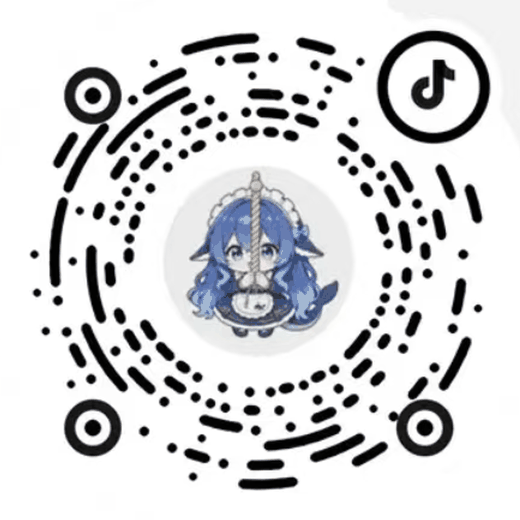
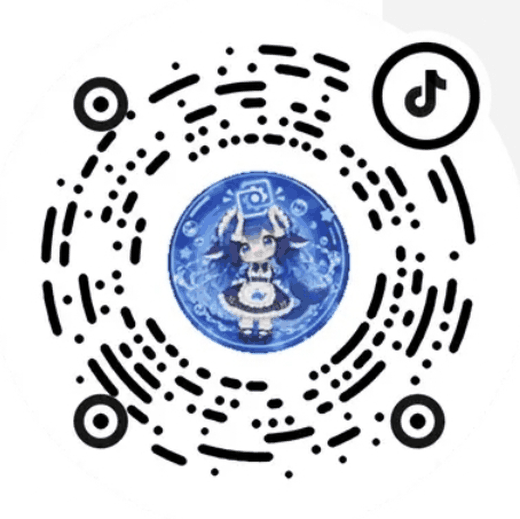
docs(联系方式): 抖音群二维码换成「dshwe 交流 2 群」（群号 917001335502）+ README 末尾加 Star History 趋势图
- 新源图归档 assets/about/douyin-group-dshwe-2-748x748.png；旧源图（dsh 交流群）保留作历史档案并标注已退役
- lib/about/douyin-group.png 按既有派生口径重出（裁码区 36px 留白 → 520px 宽 → 128 色）；客户端只存路径，不需重建产物
- 群号/群名四处同步：README.md / README.en.md / assets/about / lib/about
- 两份 README 末尾追加 star-history.com Date 型趋势图（外链 SVG，API 200 可达）

diff --git a/README.en.md b/README.en.md
@@ -334,7 +334,7 @@ Questions, feedback, or want new versions the moment they land? Join one of our 
 | 🐧 QQ group | 🎵 Douyin group |
 |---|---|
 | <img src="lib/about/qq-group.png" alt="QQ group QR code" width="260"> | <img src="lib/about/douyin-group.png" alt="Douyin group QR code" width="260"> |
-| **DSHWE \| LLM discussion** | **dsh community** (group ID 252729465001) |
+| **DSHWE \| LLM discussion** | **dshwe community 2** (group ID 917001335502) |
 
 > The images are the shipped assets `lib/about/*.png` (the plugin serves the very same bytes from its own route); for the source screenshots and how they were derived, see [`assets/about/README.md`](assets/about/README.md).
 
@@ -347,3 +347,7 @@ This plugin is the work of many people — thank you all:
 - **[yuxilao](https://github.com/yuxilao)** — the scene-gl Linux real-time rendering pipeline (WebGL2 official shader driver + several rounds of performance work) and rotation handoff / GPU frame backfill / official assets path ([#65](https://github.com/elysia395/dsh-wallpaper-engine/pull/65), [#108](https://github.com/elysia395/dsh-wallpaper-engine/pull/108)).
 - **[Jerry](https://github.com/ruijiaang-lab)** — before native three-platform support landed, he maintained the macOS side of things (WaifuX workshop directory scanning, vinyl thumbnail fallback, upstream porting, and the macOS contribution paths, [#44](https://github.com/elysia395/dsh-wallpaper-engine/pull/44), [#45](https://github.com/elysia395/dsh-wallpaper-engine/pull/45), [#52](https://github.com/elysia395/dsh-wallpaper-engine/pull/52), [#54](https://github.com/elysia395/dsh-wallpaper-engine/pull/54)).
 - Also [SiriLee](https://github.com/SiriLee) (brightness / contrast / saturation controls, the mascot pull-cord toggle, Steam root discovery from WSL), [libiwolve](https://github.com/libiwolve) (content rating & type filters), [0-007pro](https://github.com/0-007pro) (automatic wallpaper rotation), [jujubaoj646-star](https://github.com/jujubaoj646-star) (the typography & bubble styling panel), [xiahou001](https://github.com/xiahou001) (per-wallpaper audio volume), [wilianyichen](https://github.com/wilianyichen) (on-demand MP4 thumbnails & upload content ratings), [hecoococ](https://github.com/hecoococ) (decoupling sidebar glass from the active wallpaper), [ShamSky88](https://github.com/ShamSky88) (the glass blur positioning fix), [Rekk0](https://github.com/Rekk0) (token-driven glass transparency, registry-based Steam discovery), [Y1X1n](https://github.com/Y1X1n) (the beginner-friendly guide), [wwexplorer](https://github.com/wwexplorer) (wallpaper-layer framing: horizontal / vertical / scale, with typeable values) — and everyone who has helped through issues and PRs. Thank you!
+
+## Star History
+
+[![Star History Chart](https://api.star-history.com/svg?repos=elysia395/dsh-wallpaper-engine&type=Date)](https://star-history.com/#elysia395/dsh-wallpaper-engine&Date)

diff --git a/README.md b/README.md
@@ -307,7 +307,7 @@ dsh plugin --profile web add dsh-plugin-wallpaper-engine
 | 🐧 QQ 群 | 🎵 抖音群 |
 |---|---|
 | <img src="lib/about/qq-group.png" alt="QQ 群二维码" width="260"> | <img src="lib/about/douyin-group.png" alt="抖音群二维码" width="260"> |
-| **DSHWE \| LLM 讨论群** | **dsh 交流群**（群号 252729465001） |
+| **DSHWE \| LLM 讨论群** | **dshwe 交流 2 群**（群号 917001335502） |
 
 > 图片用的是随包资源 `lib/about/*.png`（插件运行时由自己的路由提供同一份字节）；源截图与派生口径见 [`assets/about/README.md`](assets/about/README.md)。
 
@@ -320,3 +320,7 @@ dsh plugin --profile web add dsh-plugin-wallpaper-engine
 - **[yuxilao](https://github.com/yuxilao)** —— scene-gl Linux 实时渲染管线（WebGL2 官方 shader 驱动 + 多轮性能优化）与轮换交接 / GPU 帧回填 / 官方资源路径（[#65](https://github.com/elysia395/dsh-wallpaper-engine/pull/65)、[#108](https://github.com/elysia395/dsh-wallpaper-engine/pull/108)）。
 - **[Jerry](https://github.com/ruijiaang-lab)** —— 在三平台原生支持落地之前，macOS 侧的适配与贡献路径由他维护（WaifuX 工坊目录扫描、黑胶缩略图兜底、上游移植与 macOS 贡献路径梳理，[#44](https://github.com/elysia395/dsh-wallpaper-engine/pull/44)、[#45](https://github.com/elysia395/dsh-wallpaper-engine/pull/45)、[#52](https://github.com/elysia395/dsh-wallpaper-engine/pull/52)、[#54](https://github.com/elysia395/dsh-wallpaper-engine/pull/54)）。
 - 还有 [SiriLee](https://github.com/SiriLee)（壁纸亮度 / 对比度 / 饱和度调节、吉祥物拉绳开关、WSL 下探测 Steam 根目录）、[libiwolve](https://github.com/libiwolve)（内容分级与类型过滤）、[0-007pro](https://github.com/0-007pro)（自动轮播）、[jujubaoj646-star](https://github.com/jujubaoj646-star)（字体与气泡样式自定义面板）、[xiahou001](https://github.com/xiahou001)（壁纸音轨音量控制）、[wilianyichen](https://github.com/wilianyichen)（MP4 按需缩略图与自上传内容分级）、[hecoococ](https://github.com/hecoococ)（侧栏玻璃与活动壁纸解耦）、[ShamSky88](https://github.com/ShamSky88)（玻璃模糊定位修复）、[Rekk0](https://github.com/Rekk0)（玻璃透明度令牌化、注册表定位 Steam）、[Y1X1n](https://github.com/Y1X1n)（小白向使用指南）、[wwexplorer](https://github.com/wwexplorer)（壁纸层取景：水平 / 垂直 / 缩放，数值可直接键入），以及所有通过 issue 反馈与 PR 参与改进的朋友 —— 谢谢你们！
+
+## Star History
+
+[![Star History Chart](https://api.star-history.com/svg?repos=elysia395/dsh-wallpaper-engine&type=Date)](https://star-history.com/#elysia395/dsh-wallpaper-engine&Date)

diff --git a/assets/about/README.md b/assets/about/README.md
@@ -15,7 +15,7 @@
 | 文件 | 尺寸 | 用途 |
 |---|---|---|
 | `qq-group-dshwe-llm-702x852.png` | 702×852 | **QQ 群「DSHWE \| LLM 讨论群」** 群二维码（含图内标题）。对应 `lib/about/qq-group.png` / `ABOUT_QR_QQ_PATH` |
-| `douyin-group-dsh-1044x1026.png` | 1044×1026 | **抖音群「dsh 交流群」**（群号 252729465001）二维码（含图内群名与群号）。对应 `lib/about/douyin-group.png` / `ABOUT_QR_DOUYIN_PATH` |
+| `douyin-group-dshwe-2-748x748.png` | 748×748 | **抖音群「dshwe 交流 2 群」**（群号 917001335502）二维码（含图内群名与群号）。对应 `lib/about/douyin-group.png` / `ABOUT_QR_DOUYIN_PATH`。2026-10-10 换码：旧码 `douyin-group-dsh-1044x1026.png`（「dsh 交流群」，群号 252729465001）已退役 |
 | `update-notice-star-1254x1254.png` | 1254×1254 | **v1.3.0 更新公告配图**「求个 star 喵！」GitHub 求星插画（原图）。对应 `lib/about/update-notice.jpg` / `NOTICE_ART_PATH`（缩到 720px + JPEG q88，Pillow LANCZOS） |
 
 > **派生版只取"码"那块**（裁掉图内的标题带 / 群名 / 群号），因为这些文字在页面里由**卡片自己的
@@ -38,7 +38,7 @@ import base64, io
 # 裁剪框 = 码的内容 bbox（含 36px 留白）；两张图各自的框见下面的常量。
 BOXES = {
     "qq-group-dshwe-llm-702x852.png":      (63, 249, 634, 819),   # 标题带 / 分隔线之下
-    "douyin-group-dsh-1044x1026.png":      (229, 116, 789, 676),  # 群名 / 群号文字之上
+    "douyin-group-dshwe-2-748x748.png":    (185, 116, 567, 497),  # 群名 / 群号文字之上
 }
 MARGIN, W, COLORS = 36, 520, 128
 

diff --git a/lib/about/README.md b/lib/about/README.md
@@ -18,7 +18,7 @@
 | 文件 | 内容 | 派生自 |
 |---|---|---|
 | `qq-group.png` | QQ 群「DSHWE \| LLM 讨论群」二维码（520×517） | `assets/about/qq-group-dshwe-llm-702x852.png` |
-| `douyin-group.png` | 抖音群「dsh 交流群」（群号 252729465001）二维码（520×520） | `assets/about/douyin-group-dsh-1044x1026.png` |
+| `douyin-group.png` | 抖音群「dshwe 交流 2 群」（群号 917001335502）二维码（520×519） | `assets/about/douyin-group-dshwe-2-748x748.png` |
 | `update-notice.jpg` | v1.3.0 更新公告配图「求个 star 喵！」GitHub 求星插画（720×720） | `assets/about/update-notice-star-1254x1254.png` |
 
 派生口径（只取码区 + 缩到 520px 宽 + 128 色调色板）与验证方式（逐像素比对 + macOS Vision 扫码）
